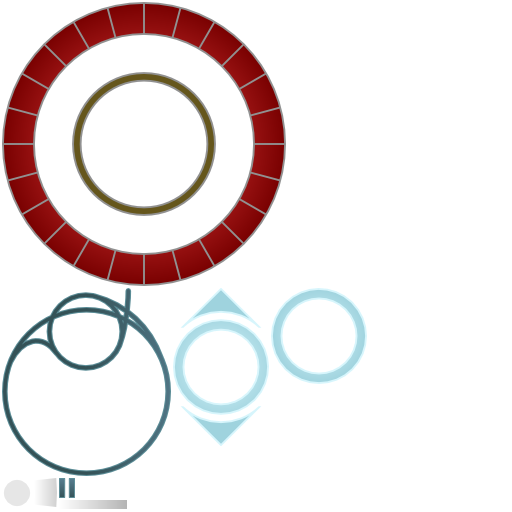
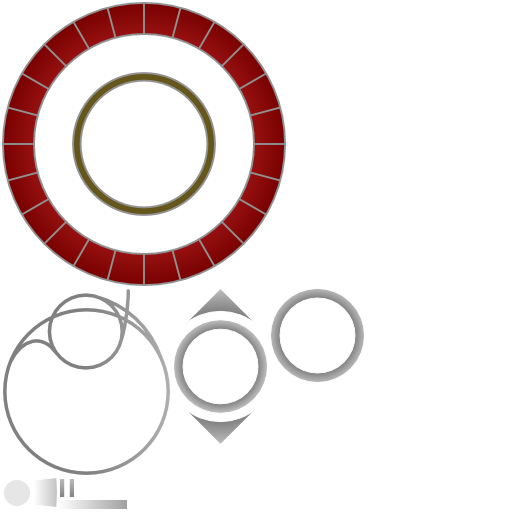
Tweaked UI colors.  Artwork is now grayscale.

diff --git a/CharmQuark/Classes/GameplayLayer.m b/CharmQuark/Classes/GameplayLayer.m
@@ -314,7 +314,7 @@ void collisionSeparate(cpArbiter *arb, cpSpace *space, GameplayLayer *self)
     // Set up next particle
     nextParticle = [self randomParticle];
     nextParticle.position = nextParticlePos;
-    [map setColor:nextParticle.particleColor];
+    [map setParticleColor:nextParticle.particleColor];
     [[self getChildByTag:kTagUIBatchNode] addChild:nextParticle];
     
     // Create physics shape.
@@ -760,7 +760,7 @@ void collisionSeparate(cpArbiter *arb, cpSpace *space, GameplayLayer *self)
     
     // Static variables.
     puzzleCenter = worldToView(kPuzzleCenter);
-    CGPoint scorePosition = ccp(10, winSize.height * 0.95f);
+    CGPoint scorePosition = ccp(5, winSize.height * 0.95f);
     CGPoint levelPosition = ccp(winSize.width * 0.5f, winSize.height * 0.95f);
     
     launchPoint = worldToView(kLaunchPoint);
@@ -799,7 +799,9 @@ void collisionSeparate(cpArbiter *arb, cpSpace *space, GameplayLayer *self)
     
     // Pause Button
     CCSprite *pauseSprite = [CCSprite spriteWithSpriteFrameName:@"pause.png"];
-    [pauseSprite setPosition:ccp(winSize.width * 0.95f, winSize.height * 0.95f)];
+    pauseSprite.color = kColorUI;
+    pauseSprite.anchorPoint = ccp(1.0, 0.5);
+    [pauseSprite setPosition:ccp(winSize.width - 5, winSize.height * 0.95f)];
     [uiBatchNode addChild:pauseSprite z:kZUIElements];
     
     // Add score label.
@@ -841,8 +843,8 @@ void collisionSeparate(cpArbiter *arb, cpSpace *space, GameplayLayer *self)
     
     // Add the map.
     map = [LHCMap node];
+    map.color = kColorUI;
     map.anchorPoint = ccp(0.02, 0.5);
-    //map.position = ccp(0, winSize.height * 0.62);
     map.position = ccp(0, puzzleCenter.y);
     [uiBatchNode addChild:map z:kZBackground];
     
@@ -860,10 +862,12 @@ void collisionSeparate(cpArbiter *arb, cpSpace *space, GameplayLayer *self)
     
     // Add the thumb guides.
     thumbGuide = [CCSprite spriteWithSpriteFrameName:@"thumbguide.png"];
+    thumbGuide.color = kColorThumbGuide;
     thumbGuide.opacity = 0;
     [uiBatchNode addChild:thumbGuide z:kZUIElements - 1];
     
     fireButton = [CCSprite spriteWithSpriteFrameName:@"firebutton.png"];
+    fireButton.color = kColorThumbGuide;
     fireButton.opacity = 0;
     [uiBatchNode addChild:fireButton z:kZUIElements];
     
@@ -908,7 +912,7 @@ void collisionSeparate(cpArbiter *arb, cpSpace *space, GameplayLayer *self)
             if (nil == launchTouch) {
                 launchTouch = touch;
                 fireButton.position = location;
-                fireButton.opacity = 255;
+                fireButton.opacity = kOpacityThumbGuide;
             }
         } else if (nil == rotationTouch) {
             // Touches on the right are for rotation.  
@@ -926,7 +930,7 @@ void collisionSeparate(cpArbiter *arb, cpSpace *space, GameplayLayer *self)
             // Show thumb guide.
             thumbGuide.position = location;
             thumbGuide.rotation = CC_RADIANS_TO_DEGREES(atanf(ray.x / ray.y));
-            thumbGuide.opacity = 255;
+            thumbGuide.opacity = kOpacityThumbGuide;
         }        
     }
 }

diff --git a/CharmQuark/Classes/Scale9Sprite.m b/CharmQuark/Classes/Scale9Sprite.m
@@ -10,7 +10,7 @@
 
 @implementation Scale9Sprite
 
-@synthesize opacity, color, top;
+@synthesize top, color, opacity;
 
 enum positions {
 pCentre = 0,
@@ -253,6 +253,31 @@ CGRect resizableRegion;
     
 }
 
+-(void) setColor:(ccColor3B)aColor {
+    color = aColor;
+    topLeft.color = color;
+	top.color = color;
+	topRight.color = color;
+	left.color = color;
+	centre.color = color;
+	right.color = color;
+	bottomLeft.color = color;
+	bottom.color = color;
+	bottomRight.color = color;
+}
+
+-(void) setOpacity:(GLubyte)theOpacity {
+    opacity = theOpacity;
+    topLeft.opacity = opacity;
+	top.opacity = opacity;
+	topRight.opacity = opacity;
+	left.opacity = opacity;
+	centre.opacity = opacity;
+	right.opacity = opacity;
+	bottomLeft.opacity = opacity;
+	bottom.opacity = opacity;
+	bottomRight.opacity = opacity;
+}
 
 -(void) draw {
 	[scale9Image draw];

diff --git a/CharmQuark/Classes/Constants.h b/CharmQuark/Classes/Constants.h
@@ -11,15 +11,21 @@
 
 #define kMainMenuTagValue 10
 
+// Scoring messages
 #define kColorScore         ccc3(240, 200, 80)
 #define kColorCombo         ccc3(200, 200, 230)
 #define kColorBonus         ccc3(200, 200, 230)
 #define kColorTimeAdd       ccc3(200, 230, 200)
 #define kColorLevelUp       ccc3(230, 200, 200)
+
+// UI Elements
 #define kColorUI            ccc3(90, 140, 150)
-//#define kColorButton        ccc3(120, 160, 170)
 #define kColorButton        ccc3(140, 170, 180)
 #define kColorDialogTitle   ccc3(90, 140, 150)
+#define kColorThumbGuide    ccc3(140, 190, 200)
+#define kOpacityThumbGuide  128
+
+// Dialog tuning
 #define kPopupSpeed         0.3
 #define kDialogTitlePos     ccp(winSize.width * 0.5, winSize.height * 0.72);
 

diff --git a/CharmQuark/Classes/DialogNode.m b/CharmQuark/Classes/DialogNode.m
@@ -7,6 +7,7 @@
 //
 
 #import "DialogNode.h"
+#import "Constants.h"
 
 @implementation DialogNode
 
@@ -63,7 +64,8 @@
     self.contentSize = winSize;
     
     windowSprite = [[[Scale9Sprite alloc] initWithFile:@"window.png" 
-                                                ratioX:0.49 ratioY:0.49] autorelease];;
+                                                ratioX:0.49 ratioY:0.49] autorelease];
+    windowSprite.color = kColorUI;
     [windowSprite setContentSize:CGSizeMake(winSize.width * .75, winSize.height * .75)];
     [windowSprite setPosition:ccp(winSize.width / 2, winSize.height / 2)];
     [self addChild:windowSprite];

diff --git a/CharmQuark/Classes/LHCMap.m b/CharmQuark/Classes/LHCMap.m
@@ -36,7 +36,7 @@
     
 }
 
--(void)setColor:(ParticleColors)color {
+-(void)setParticleColor:(ParticleColors)color {
     switch (color) {
         case kParticleRed:
             colorPacket.color = kCC3ParticleRed;
@@ -81,7 +81,6 @@
     // Load background LHCMap.png
     self = [super initWithSpriteFrameName:@"lhcmap.png"];
     if (self) {
-        
         whitePacket = [CCSprite spriteWithSpriteFrameName:@"white-small.png"];
         colorPacket = [CCSprite spriteWithSpriteFrameName:@"white-small.png"];
         

diff --git a/CharmQuark/Classes/LHCMap.h b/CharmQuark/Classes/LHCMap.h
@@ -22,6 +22,6 @@
 
 -(void)setTime:(float)time;
 
--(void)setColor:(ParticleColors)color;
+-(void)setParticleColor:(ParticleColors)color;
 
 @end
